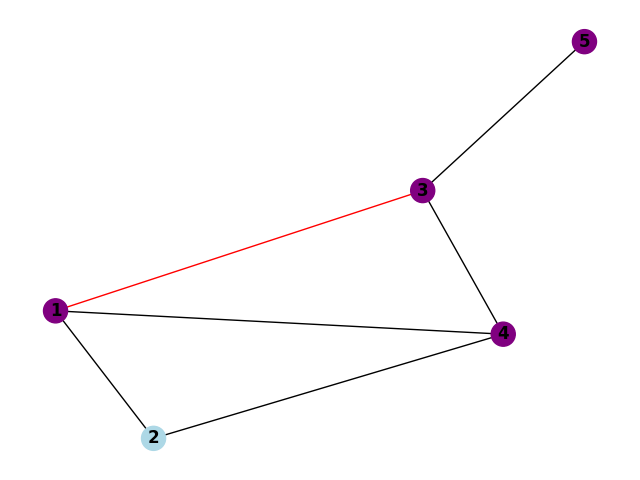
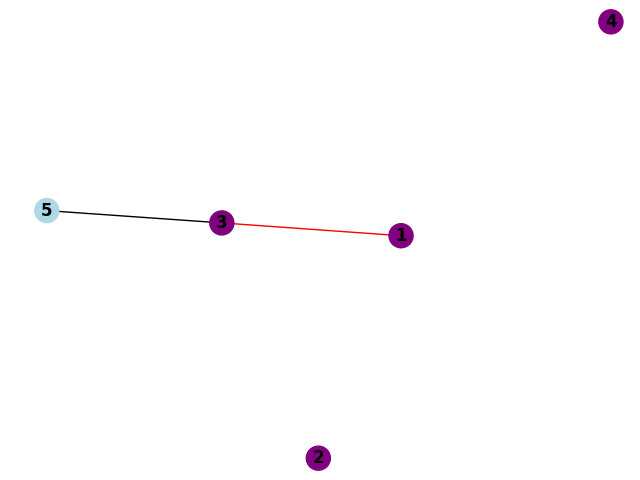
update remove edges

diff --git a/lab02/main.py b/lab02/main.py
@@ -91,6 +91,19 @@ def vertex_cover_2_approx(graph):
         print(f"Zapisano graf po etapie {step} do pliku: graph_step_{step}_1.png")
         graph.remove_edge(u, v)
 
+        for neighbor in range(graph.size):
+            if graph.matrix[u][neighbor] > 0:
+                graph.matrix[u][neighbor] = 0
+                graph.matrix[neighbor][u] = 0
+                graph.remove_edge(u, neighbor)
+                print(f"Usuwam krawędź incydentną: ({u+1}, {neighbor+1})")
+            if graph.matrix[v][neighbor] > 0:
+                graph.matrix[v][neighbor] = 0
+                graph.matrix[neighbor][v] = 0
+                graph.remove_edge(v, neighbor)
+                print(f"Usuwam krawędź incydentną: ({v+1}, {neighbor+1})")
+
+
         graph.draw_graph(f"graph_step_{step}_2", cover_nodes=cover, cover_edges=cover_edges)
         print(f"Zapisano graf po etapie {step} do pliku: graph_step_{step}_2.png")
         
